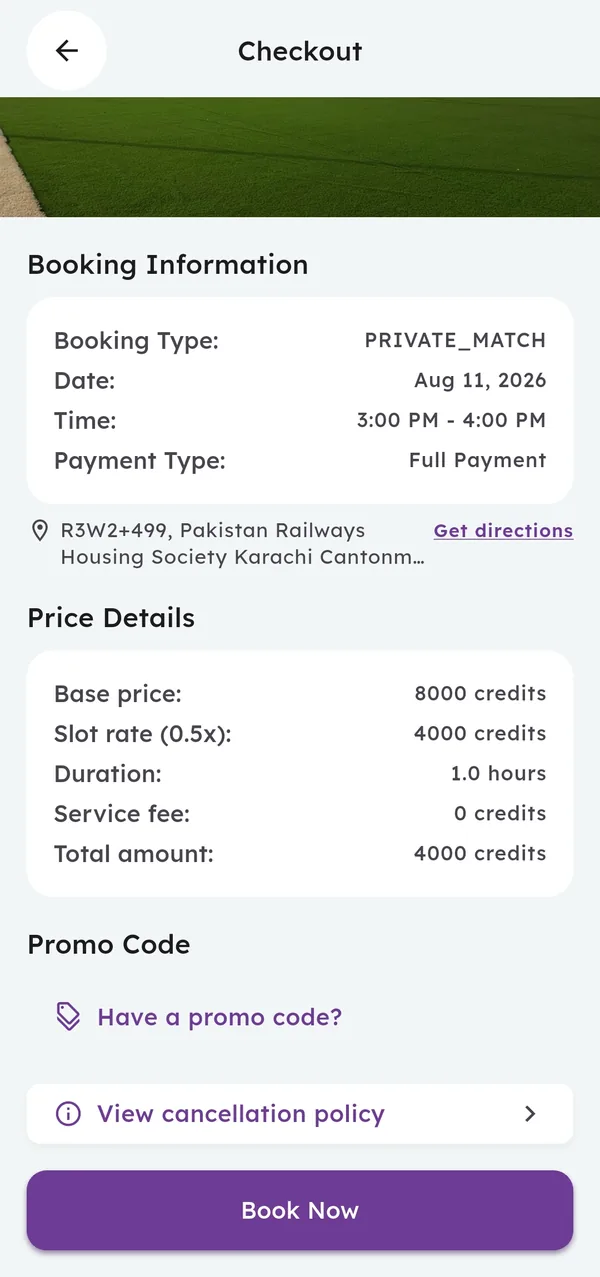
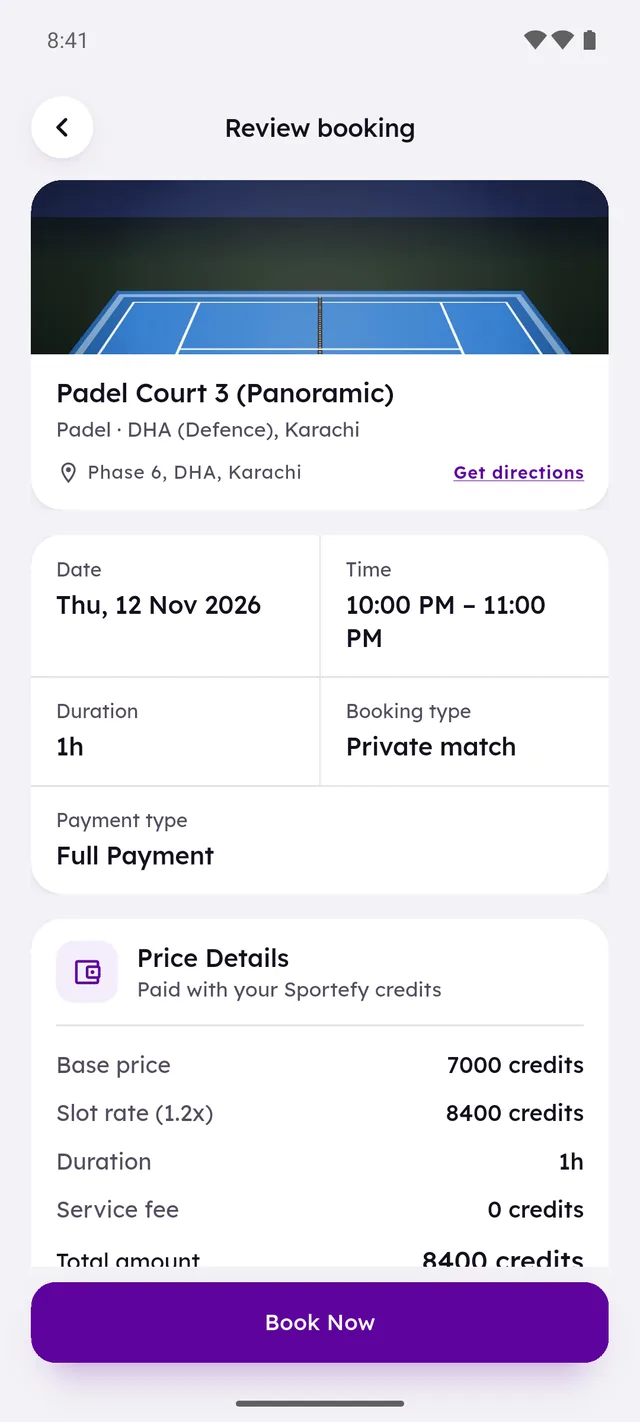
Sportefy: new walkthrough screens; note that screens show demo data

diff --git a/work/sportefy/index.html b/work/sportefy/index.html
@@ -115,21 +115,28 @@
     <div class="walk-group reveal">
       <div class="walk-group-label">Consumer App · Flutter</div>
       <div class="shots cols-3 phones">
-        <div class="shot"><div class="phone"><img width="600" height="1277" src="../../assets/img/sportefy/app-home.webp" alt="Sportefy app home: credits and nearby venues" loading="lazy"></div><div class="shot-cap">Home: credits &amp; nearby venues</div></div>
-        <div class="shot"><div class="phone"><img width="600" height="1277" src="../../assets/img/sportefy/app-booking-details.webp" alt="Sportefy slot booking and match setup" loading="lazy"></div><div class="shot-cap">Slot booking &amp; match setup</div></div>
-        <div class="shot"><div class="phone"><img width="600" height="1277" src="../../assets/img/sportefy/app-checkout.webp" alt="Sportefy checkout with credit pricing" loading="lazy"></div><div class="shot-cap">Checkout: credit pricing</div></div>
+        <div class="shot"><div class="phone"><img width="640" height="1422" src="../../assets/img/sportefy/app-home.webp" alt="Sportefy app home: wallet card and match requests" loading="lazy"></div><div class="shot-cap">Home: wallet &amp; match requests</div></div>
+        <div class="shot"><div class="phone"><img width="640" height="1422" src="../../assets/img/sportefy/app-venues-list.webp" alt="Sportefy venues list" loading="lazy"></div><div class="shot-cap">Venues by sport &amp; distance</div></div>
+        <div class="shot"><div class="phone"><img width="640" height="1422" src="../../assets/img/sportefy/app-slot-picking.webp" alt="Sportefy slot picking" loading="lazy"></div><div class="shot-cap">Picking a slot &amp; match type</div></div>
+        <div class="shot"><div class="phone"><img width="640" height="1422" src="../../assets/img/sportefy/app-checkout.webp" alt="Sportefy checkout paid in credits" loading="lazy"></div><div class="shot-cap">Checkout: paid in credits</div></div>
+        <div class="shot"><div class="phone"><img width="640" height="1422" src="../../assets/img/sportefy/app-match-details.webp" alt="Sportefy match details with teams" loading="lazy"></div><div class="shot-cap">Match details, teams &amp; match code</div></div>
+        <div class="shot"><div class="phone"><img width="640" height="1422" src="../../assets/img/sportefy/app-match-chat.webp" alt="Sportefy match chat" loading="lazy"></div><div class="shot-cap">Realtime match chat</div></div>
       </div>
     </div>
 
     <div class="walk-group reveal">
       <div class="walk-group-label">Admin Dashboard · Web</div>
       <div class="shots">
-        <div class="shot"><div class="frame"><div class="frame-bar"><i></i><i></i><i></i></div><img width="1200" height="596" src="../../assets/img/sportefy/admin-manual-bookings.webp" alt="Sportefy manual bookings and reconciliation" loading="lazy"></div><div class="shot-cap">Manual bookings &amp; reconciliation</div></div>
-        <div class="shot"><div class="frame"><div class="frame-bar"><i></i><i></i><i></i></div><img width="1200" height="596" src="../../assets/img/sportefy/admin-available-slots.webp" alt="Sportefy availability and slot management" loading="lazy"></div><div class="shot-cap">Availability &amp; slot management</div></div>
+        <div class="shot"><div class="frame"><div class="frame-bar"><i></i><i></i><i></i></div><img width="1200" height="750" src="../../assets/img/sportefy/admin-command-center-this-month.webp" alt="Sportefy command center" loading="lazy"></div><div class="shot-cap">Command center: credits, cash &amp; court performance</div></div>
+        <div class="shot"><div class="frame"><div class="frame-bar"><i></i><i></i><i></i></div><img width="1200" height="750" src="../../assets/img/sportefy/admin-reports-last-3-months.webp" alt="Sportefy booking trends report" loading="lazy"></div><div class="shot-cap">Reports: app &amp; manual booking trends</div></div>
+        <div class="shot"><div class="frame"><div class="frame-bar"><i></i><i></i><i></i></div><img width="1200" height="750" src="../../assets/img/sportefy/admin-bookings-list.webp" alt="Sportefy bookings list" loading="lazy"></div><div class="shot-cap">All bookings, app &amp; manual</div></div>
+        <div class="shot"><div class="frame"><div class="frame-bar"><i></i><i></i><i></i></div><img width="1200" height="750" src="../../assets/img/sportefy/admin-available-slots.webp" alt="Sportefy availability and slot management" loading="lazy"></div><div class="shot-cap">Availability &amp; slot management</div></div>
+        <div class="shot"><div class="frame"><div class="frame-bar"><i></i><i></i><i></i></div><img width="1200" height="750" src="../../assets/img/sportefy/admin-payment-verification.webp" alt="Sportefy payment verification queue" loading="lazy"></div><div class="shot-cap">Payment verification queue</div></div>
+        <div class="shot"><div class="frame"><div class="frame-bar"><i></i><i></i><i></i></div><img width="1200" height="750" src="../../assets/img/sportefy/admin-memberships-plans.webp" alt="Sportefy membership plans" loading="lazy"></div><div class="shot-cap">Membership plans &amp; access</div></div>
       </div>
     </div>
 
-    <p style="margin-top:36px; font-family:var(--font-mono); font-size:13px; color:var(--text-4); max-width:52em">Screens captured from the live product: app v1.4.8 on the App Store &amp; Play Store, and the production admin dashboard.</p>
+    <p style="margin-top:36px; font-family:var(--font-mono); font-size:13px; color:var(--text-4); max-width:52em">Screens from app v1.5.1 and the admin dashboard, running on demo data.</p>
   </div>
 </section>
 

diff --git a/work/etg/index.html b/work/etg/index.html
@@ -152,6 +152,7 @@
         <div class="shot"><div class="frame"><div class="frame-bar"><i></i><i></i><i></i></div><img width="1200" height="750" src="../../assets/img/etg/admin-bill-matching-compare.webp" alt="ETG bank payment compared with its bill" loading="lazy"></div><div class="shot-cap">A bank payment matched against its bill</div></div>
       </div>
     </div>
+    <p style="margin-top:36px; font-family:var(--font-mono); font-size:13px; color:var(--text-4); max-width:52em">Screens from a local build running on demo data.</p>
   </div>
 </section>
 
